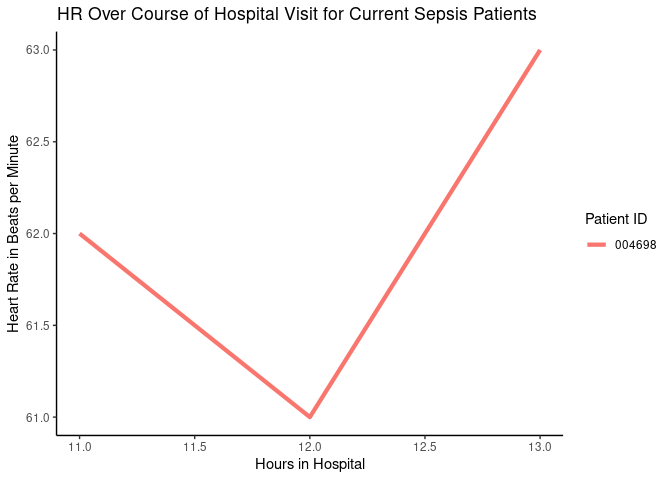
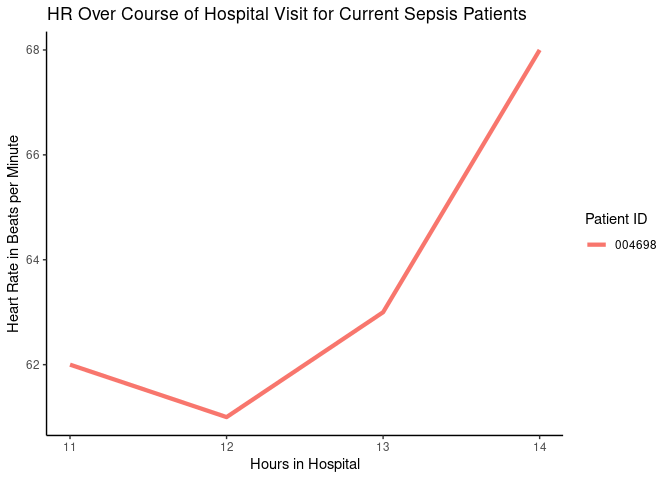
Updated report

diff --git a/README.md b/README.md
@@ -3,7 +3,7 @@ Sepsis Data Report
 
 ## Sepsis Patient Information
 
-### Data last updated: 2023-04-09 14:31:33
+### Data last updated: 2023-04-09 15:01:49
 
 #### Current Vitals for Patients with Sepsis
 
@@ -20,10 +20,10 @@ Sepsis Data Report
 <tbody>
   <tr>
    <td style="text-align:left;"> 004698 </td>
-   <td style="text-align:right;"> 13 </td>
-   <td style="text-align:right;"> 63 </td>
+   <td style="text-align:right;"> 14 </td>
+   <td style="text-align:right;"> 68 </td>
    <td style="text-align:right;"> NA </td>
-   <td style="text-align:right;"> 15 </td>
+   <td style="text-align:right;"> 16 </td>
   </tr>
 </tbody>
 </table>
@@ -59,36 +59,36 @@ Sepsis Data Report
   </tr>
   <tr>
    <td style="text-align:left;"> 000335 </td>
-   <td style="text-align:right;"> 14 </td>
+   <td style="text-align:right;"> 15 </td>
    <td style="text-align:left;"> No </td>
-   <td style="text-align:right;"> 87 </td>
-   <td style="text-align:right;"> 37.56 </td>
-   <td style="text-align:right;"> 26 </td>
-   <td style="text-align:right;"> 5 </td>
+   <td style="text-align:right;"> 86 </td>
    <td style="text-align:right;"> NA </td>
-   <td style="text-align:right;"> 3 </td>
+   <td style="text-align:right;"> 24 </td>
+   <td style="text-align:right;"> -1 </td>
+   <td style="text-align:right;"> NA </td>
+   <td style="text-align:right;"> -2 </td>
   </tr>
   <tr>
    <td style="text-align:left;"> 000341 </td>
-   <td style="text-align:right;"> 12 </td>
+   <td style="text-align:right;"> 13 </td>
    <td style="text-align:left;"> No </td>
-   <td style="text-align:right;"> 61 </td>
    <td style="text-align:right;"> NA </td>
-   <td style="text-align:right;"> 16 </td>
-   <td style="text-align:right;"> -6 </td>
    <td style="text-align:right;"> NA </td>
-   <td style="text-align:right;"> 0 </td>
+   <td style="text-align:right;"> NA </td>
+   <td style="text-align:right;"> NA </td>
+   <td style="text-align:right;"> NA </td>
+   <td style="text-align:right;"> NA </td>
   </tr>
   <tr>
    <td style="text-align:left;"> 000470 </td>
-   <td style="text-align:right;"> 11 </td>
+   <td style="text-align:right;"> 12 </td>
    <td style="text-align:left;"> No </td>
-   <td style="text-align:right;"> 64 </td>
+   <td style="text-align:right;"> 65 </td>
    <td style="text-align:right;"> NA </td>
-   <td style="text-align:right;"> 14 </td>
-   <td style="text-align:right;"> -4 </td>
+   <td style="text-align:right;"> 15 </td>
+   <td style="text-align:right;"> 1 </td>
    <td style="text-align:right;"> NA </td>
-   <td style="text-align:right;"> 0 </td>
+   <td style="text-align:right;"> 1 </td>
   </tr>
   <tr>
    <td style="text-align:left;"> 000534 </td>
@@ -103,14 +103,14 @@ Sepsis Data Report
   </tr>
   <tr>
    <td style="text-align:left;"> 000558 </td>
-   <td style="text-align:right;"> 14 </td>
+   <td style="text-align:right;"> 15 </td>
    <td style="text-align:left;"> No </td>
-   <td style="text-align:right;"> 74 </td>
+   <td style="text-align:right;"> 76 </td>
    <td style="text-align:right;"> NA </td>
    <td style="text-align:right;"> 16 </td>
-   <td style="text-align:right;"> 11 </td>
+   <td style="text-align:right;"> 2 </td>
    <td style="text-align:right;"> NA </td>
-   <td style="text-align:right;"> 4 </td>
+   <td style="text-align:right;"> 0 </td>
   </tr>
   <tr>
    <td style="text-align:left;"> 000673 </td>
@@ -191,25 +191,25 @@ Sepsis Data Report
   </tr>
   <tr>
    <td style="text-align:left;"> 001772 </td>
-   <td style="text-align:right;"> 14 </td>
+   <td style="text-align:right;"> 15 </td>
    <td style="text-align:left;"> No </td>
-   <td style="text-align:right;"> 98 </td>
+   <td style="text-align:right;"> 108 </td>
    <td style="text-align:right;"> NA </td>
-   <td style="text-align:right;"> 20 </td>
-   <td style="text-align:right;"> 7 </td>
+   <td style="text-align:right;"> 25 </td>
+   <td style="text-align:right;"> 10 </td>
    <td style="text-align:right;"> NA </td>
-   <td style="text-align:right;"> -2 </td>
+   <td style="text-align:right;"> 5 </td>
   </tr>
   <tr>
    <td style="text-align:left;"> 002006 </td>
-   <td style="text-align:right;"> 11 </td>
+   <td style="text-align:right;"> 12 </td>
    <td style="text-align:left;"> No </td>
-   <td style="text-align:right;"> 80 </td>
+   <td style="text-align:right;"> 70 </td>
    <td style="text-align:right;"> NA </td>
-   <td style="text-align:right;"> 20 </td>
-   <td style="text-align:right;"> 7 </td>
+   <td style="text-align:right;"> 18 </td>
+   <td style="text-align:right;"> -10 </td>
    <td style="text-align:right;"> NA </td>
-   <td style="text-align:right;"> -1 </td>
+   <td style="text-align:right;"> -2 </td>
   </tr>
   <tr>
    <td style="text-align:left;"> 002320 </td>
@@ -246,11 +246,11 @@ Sepsis Data Report
   </tr>
   <tr>
    <td style="text-align:left;"> 003032 </td>
-   <td style="text-align:right;"> 13 </td>
+   <td style="text-align:right;"> 14 </td>
    <td style="text-align:left;"> No </td>
-   <td style="text-align:right;"> 96 </td>
    <td style="text-align:right;"> NA </td>
-   <td style="text-align:right;"> 24 </td>
+   <td style="text-align:right;"> NA </td>
+   <td style="text-align:right;"> NA </td>
    <td style="text-align:right;"> NA </td>
    <td style="text-align:right;"> NA </td>
    <td style="text-align:right;"> NA </td>
@@ -279,25 +279,25 @@ Sepsis Data Report
   </tr>
   <tr>
    <td style="text-align:left;"> 003535 </td>
-   <td style="text-align:right;"> 11 </td>
+   <td style="text-align:right;"> 12 </td>
    <td style="text-align:left;"> No </td>
-   <td style="text-align:right;"> 86 </td>
+   <td style="text-align:right;"> 92 </td>
    <td style="text-align:right;"> NA </td>
-   <td style="text-align:right;"> 21 </td>
-   <td style="text-align:right;"> -5 </td>
+   <td style="text-align:right;"> 22 </td>
+   <td style="text-align:right;"> 6 </td>
    <td style="text-align:right;"> NA </td>
    <td style="text-align:right;"> 1 </td>
   </tr>
   <tr>
    <td style="text-align:left;"> 003588 </td>
-   <td style="text-align:right;"> 13 </td>
+   <td style="text-align:right;"> 14 </td>
    <td style="text-align:left;"> No </td>
-   <td style="text-align:right;"> 111 </td>
+   <td style="text-align:right;"> 91 </td>
+   <td style="text-align:right;"> 37.17 </td>
+   <td style="text-align:right;"> 30 </td>
+   <td style="text-align:right;"> -20 </td>
    <td style="text-align:right;"> NA </td>
-   <td style="text-align:right;"> 26 </td>
-   <td style="text-align:right;"> 19 </td>
-   <td style="text-align:right;"> NA </td>
-   <td style="text-align:right;"> 11 </td>
+   <td style="text-align:right;"> 4 </td>
   </tr>
   <tr>
    <td style="text-align:left;"> 004104 </td>
@@ -367,12 +367,12 @@ Sepsis Data Report
   </tr>
   <tr>
    <td style="text-align:left;"> 004698 </td>
-   <td style="text-align:right;"> 13 </td>
+   <td style="text-align:right;"> 14 </td>
    <td style="text-align:left;"> Yes </td>
-   <td style="text-align:right;"> 63 </td>
+   <td style="text-align:right;"> 68 </td>
    <td style="text-align:right;"> NA </td>
-   <td style="text-align:right;"> 15 </td>
-   <td style="text-align:right;"> 2 </td>
+   <td style="text-align:right;"> 16 </td>
+   <td style="text-align:right;"> 5 </td>
    <td style="text-align:right;"> NA </td>
    <td style="text-align:right;"> 1 </td>
   </tr>
@@ -400,14 +400,14 @@ Sepsis Data Report
   </tr>
   <tr>
    <td style="text-align:left;"> 006725 </td>
-   <td style="text-align:right;"> 10 </td>
+   <td style="text-align:right;"> 11 </td>
    <td style="text-align:left;"> No </td>
-   <td style="text-align:right;"> 70 </td>
+   <td style="text-align:right;"> 68 </td>
    <td style="text-align:right;"> NA </td>
-   <td style="text-align:right;"> 16 </td>
-   <td style="text-align:right;"> 1 </td>
+   <td style="text-align:right;"> 18 </td>
+   <td style="text-align:right;"> -2 </td>
    <td style="text-align:right;"> NA </td>
-   <td style="text-align:right;"> -1 </td>
+   <td style="text-align:right;"> 2 </td>
   </tr>
   <tr>
    <td style="text-align:left;"> 006750 </td>
@@ -422,36 +422,36 @@ Sepsis Data Report
   </tr>
   <tr>
    <td style="text-align:left;"> 006876 </td>
-   <td style="text-align:right;"> 16 </td>
+   <td style="text-align:right;"> 17 </td>
    <td style="text-align:left;"> No </td>
-   <td style="text-align:right;"> 93 </td>
+   <td style="text-align:right;"> 92 </td>
    <td style="text-align:right;"> NA </td>
    <td style="text-align:right;"> 33 </td>
-   <td style="text-align:right;"> 7 </td>
+   <td style="text-align:right;"> -1 </td>
+   <td style="text-align:right;"> NA </td>
+   <td style="text-align:right;"> 0 </td>
+  </tr>
+  <tr>
+   <td style="text-align:left;"> 006963 </td>
+   <td style="text-align:right;"> 15 </td>
+   <td style="text-align:left;"> No </td>
+   <td style="text-align:right;"> 76 </td>
+   <td style="text-align:right;"> NA </td>
+   <td style="text-align:right;"> 17 </td>
+   <td style="text-align:right;"> 4 </td>
    <td style="text-align:right;"> NA </td>
    <td style="text-align:right;"> 1 </td>
   </tr>
   <tr>
-   <td style="text-align:left;"> 006963 </td>
-   <td style="text-align:right;"> 14 </td>
-   <td style="text-align:left;"> No </td>
-   <td style="text-align:right;"> 72 </td>
-   <td style="text-align:right;"> NA </td>
-   <td style="text-align:right;"> 16 </td>
-   <td style="text-align:right;"> 0 </td>
-   <td style="text-align:right;"> NA </td>
-   <td style="text-align:right;"> -2 </td>
-  </tr>
-  <tr>
    <td style="text-align:left;"> 007058 </td>
-   <td style="text-align:right;"> 14 </td>
+   <td style="text-align:right;"> 15 </td>
    <td style="text-align:left;"> No </td>
-   <td style="text-align:right;"> 63 </td>
+   <td style="text-align:right;"> 68 </td>
    <td style="text-align:right;"> NA </td>
-   <td style="text-align:right;"> 20 </td>
-   <td style="text-align:right;"> 0 </td>
+   <td style="text-align:right;"> 25 </td>
+   <td style="text-align:right;"> 5 </td>
    <td style="text-align:right;"> NA </td>
-   <td style="text-align:right;"> -2 </td>
+   <td style="text-align:right;"> 5 </td>
   </tr>
   <tr>
    <td style="text-align:left;"> 007200 </td>
@@ -488,14 +488,14 @@ Sepsis Data Report
   </tr>
   <tr>
    <td style="text-align:left;"> 008242 </td>
-   <td style="text-align:right;"> 15 </td>
+   <td style="text-align:right;"> 16 </td>
    <td style="text-align:left;"> No </td>
    <td style="text-align:right;"> 80 </td>
    <td style="text-align:right;"> NA </td>
-   <td style="text-align:right;"> 17 </td>
+   <td style="text-align:right;"> 23 </td>
    <td style="text-align:right;"> 0 </td>
    <td style="text-align:right;"> NA </td>
-   <td style="text-align:right;"> 4 </td>
+   <td style="text-align:right;"> 6 </td>
   </tr>
   <tr>
    <td style="text-align:left;"> 008356 </td>
@@ -587,14 +587,14 @@ Sepsis Data Report
   </tr>
   <tr>
    <td style="text-align:left;"> 009774 </td>
-   <td style="text-align:right;"> 13 </td>
+   <td style="text-align:right;"> 14 </td>
    <td style="text-align:left;"> No </td>
-   <td style="text-align:right;"> 115 </td>
+   <td style="text-align:right;"> 124 </td>
    <td style="text-align:right;"> NA </td>
-   <td style="text-align:right;"> 13 </td>
-   <td style="text-align:right;"> 5 </td>
+   <td style="text-align:right;"> 24 </td>
+   <td style="text-align:right;"> 9 </td>
    <td style="text-align:right;"> NA </td>
-   <td style="text-align:right;"> -5 </td>
+   <td style="text-align:right;"> 11 </td>
   </tr>
 </tbody>
 </table>
